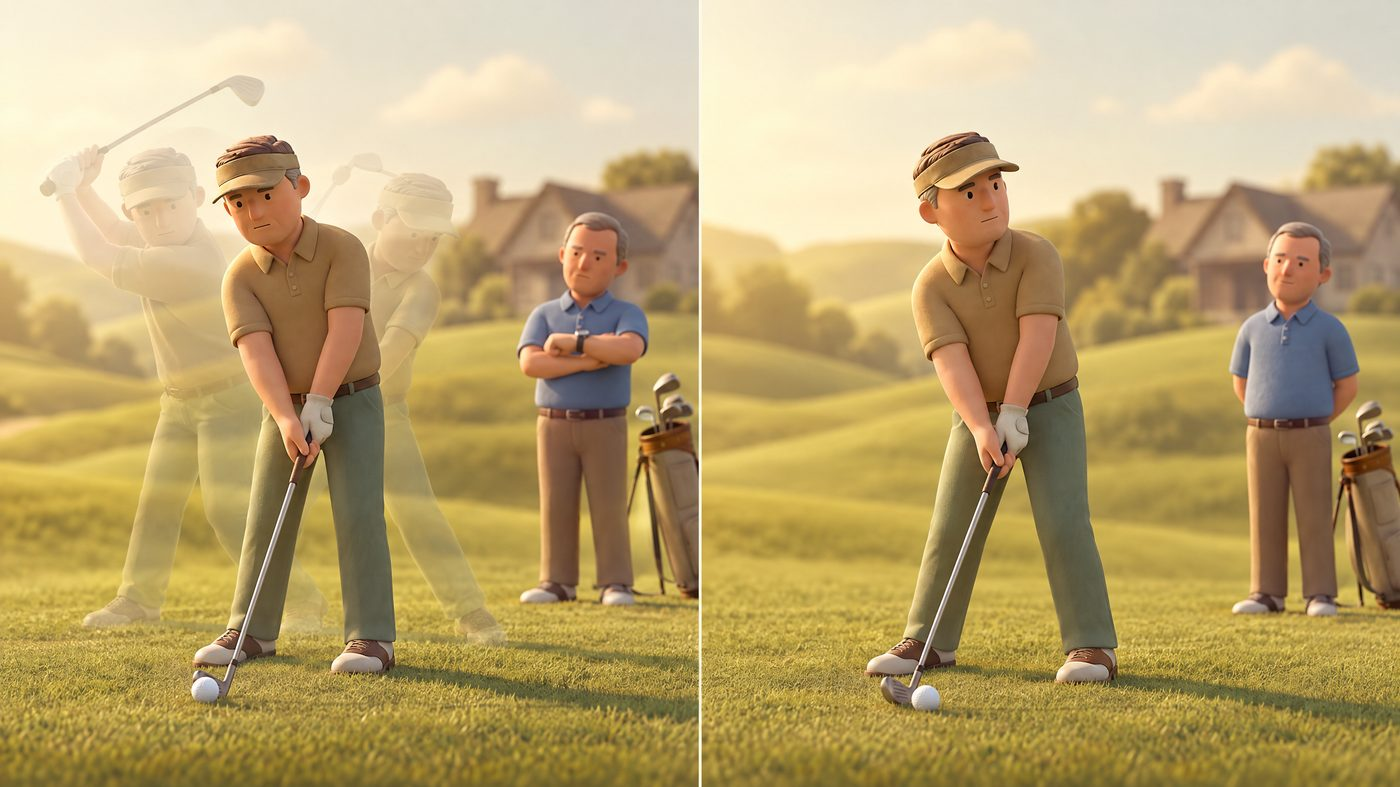
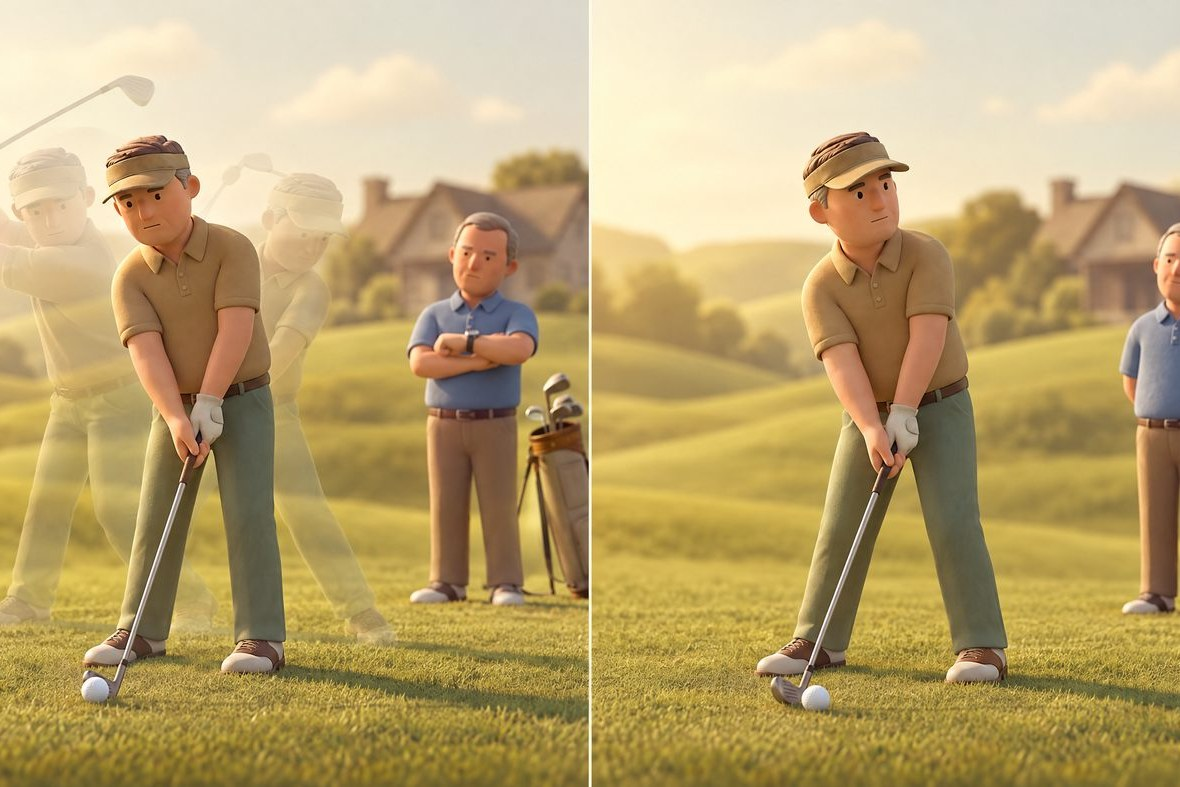
Matching border on both panes; crop the one mismatched image to 3:2
Removes the blur-backdrop workaround now that every plate shares one
aspect ratio and both sides of the spread share the same margin.

diff --git a/styles.css b/styles.css
@@ -103,32 +103,24 @@ body {
 
 .pane-art {
   position: relative;
-  overflow: hidden;
-  background: #0c0f0a;
-}
-.art-bg {
-  position: absolute;
-  inset: -4%;
-  width: 108%;
-  height: 108%;
-  object-fit: cover;
-  filter: blur(34px) saturate(1.2) brightness(.6);
-  transform: scale(1.05);
+  padding: clamp(20px, 3.4vw, 48px) clamp(12px, 2vw, 26px) clamp(20px, 3.4vw, 48px) clamp(20px, 3.6vw, 52px);
+  display: flex;
+  align-items: center;
+  justify-content: center;
 }
 .art-fg {
-  position: relative;
-  z-index: 1;
   width: 100%;
   height: 100%;
   object-fit: contain;
   display: block;
-  filter: drop-shadow(0 20px 44px rgba(0,0,0,.5));
+  border-radius: 6px;
+  box-shadow: 0 18px 40px -16px rgba(0,0,0,.5);
 }
 .pane-art .art-tag {
-  position: absolute; left: 18px; bottom: 16px;
+  position: absolute; left: 30px; bottom: 30px;
   font-family: var(--mono); font-size: 10.5px; letter-spacing: .08em;
-  color: rgba(255,255,255,.75); text-transform: uppercase;
-  background: rgba(0,0,0,.35); padding: 5px 10px; border-radius: 999px;
+  color: rgba(255,255,255,.85); text-transform: uppercase;
+  background: rgba(0,0,0,.4); padding: 5px 10px; border-radius: 999px;
   backdrop-filter: blur(2px);
 }
 

diff --git a/script.js b/script.js
@@ -110,7 +110,6 @@ function renderMarkup(index) {
   }
   return `<div class="page-inner">
     <div class="pane-art">
-      <img class="art-bg" src="${e.image}" alt="" aria-hidden="true">
       <img class="art-fg" src="${e.image}" alt="${e.name}">
       <span class="art-tag">${index} / ${TOTAL_ENTRIES}</span>
     </div>
